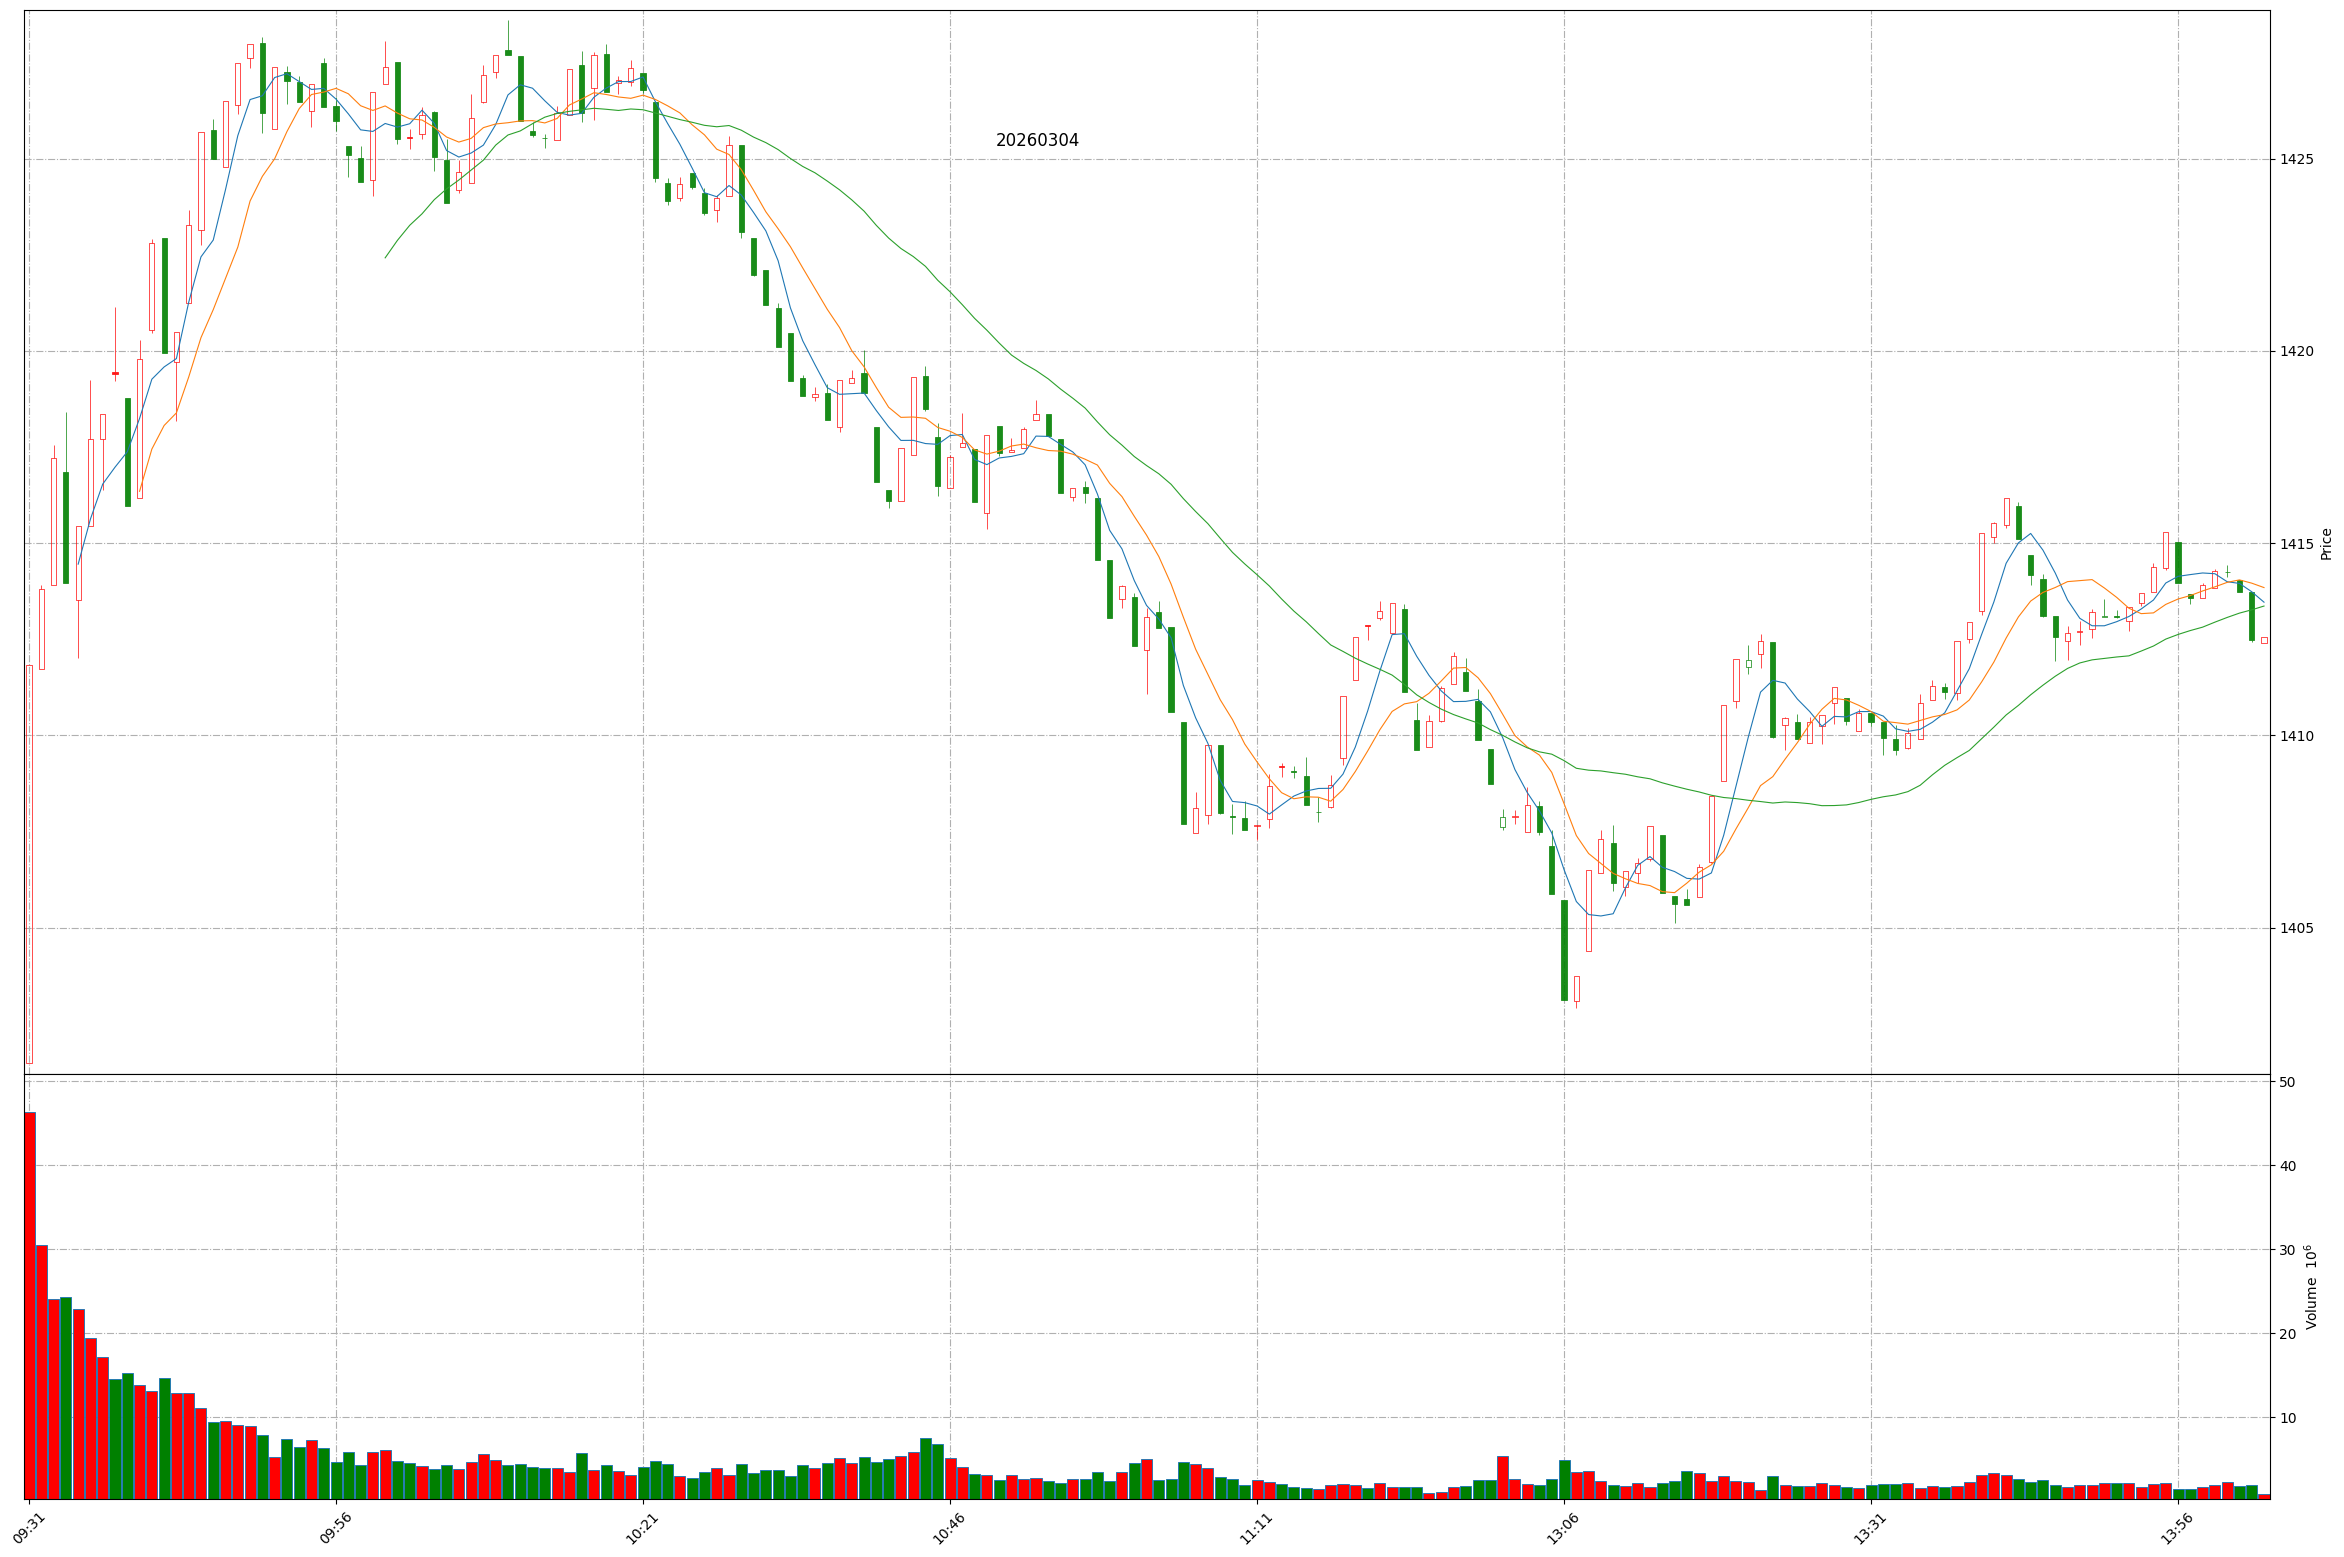
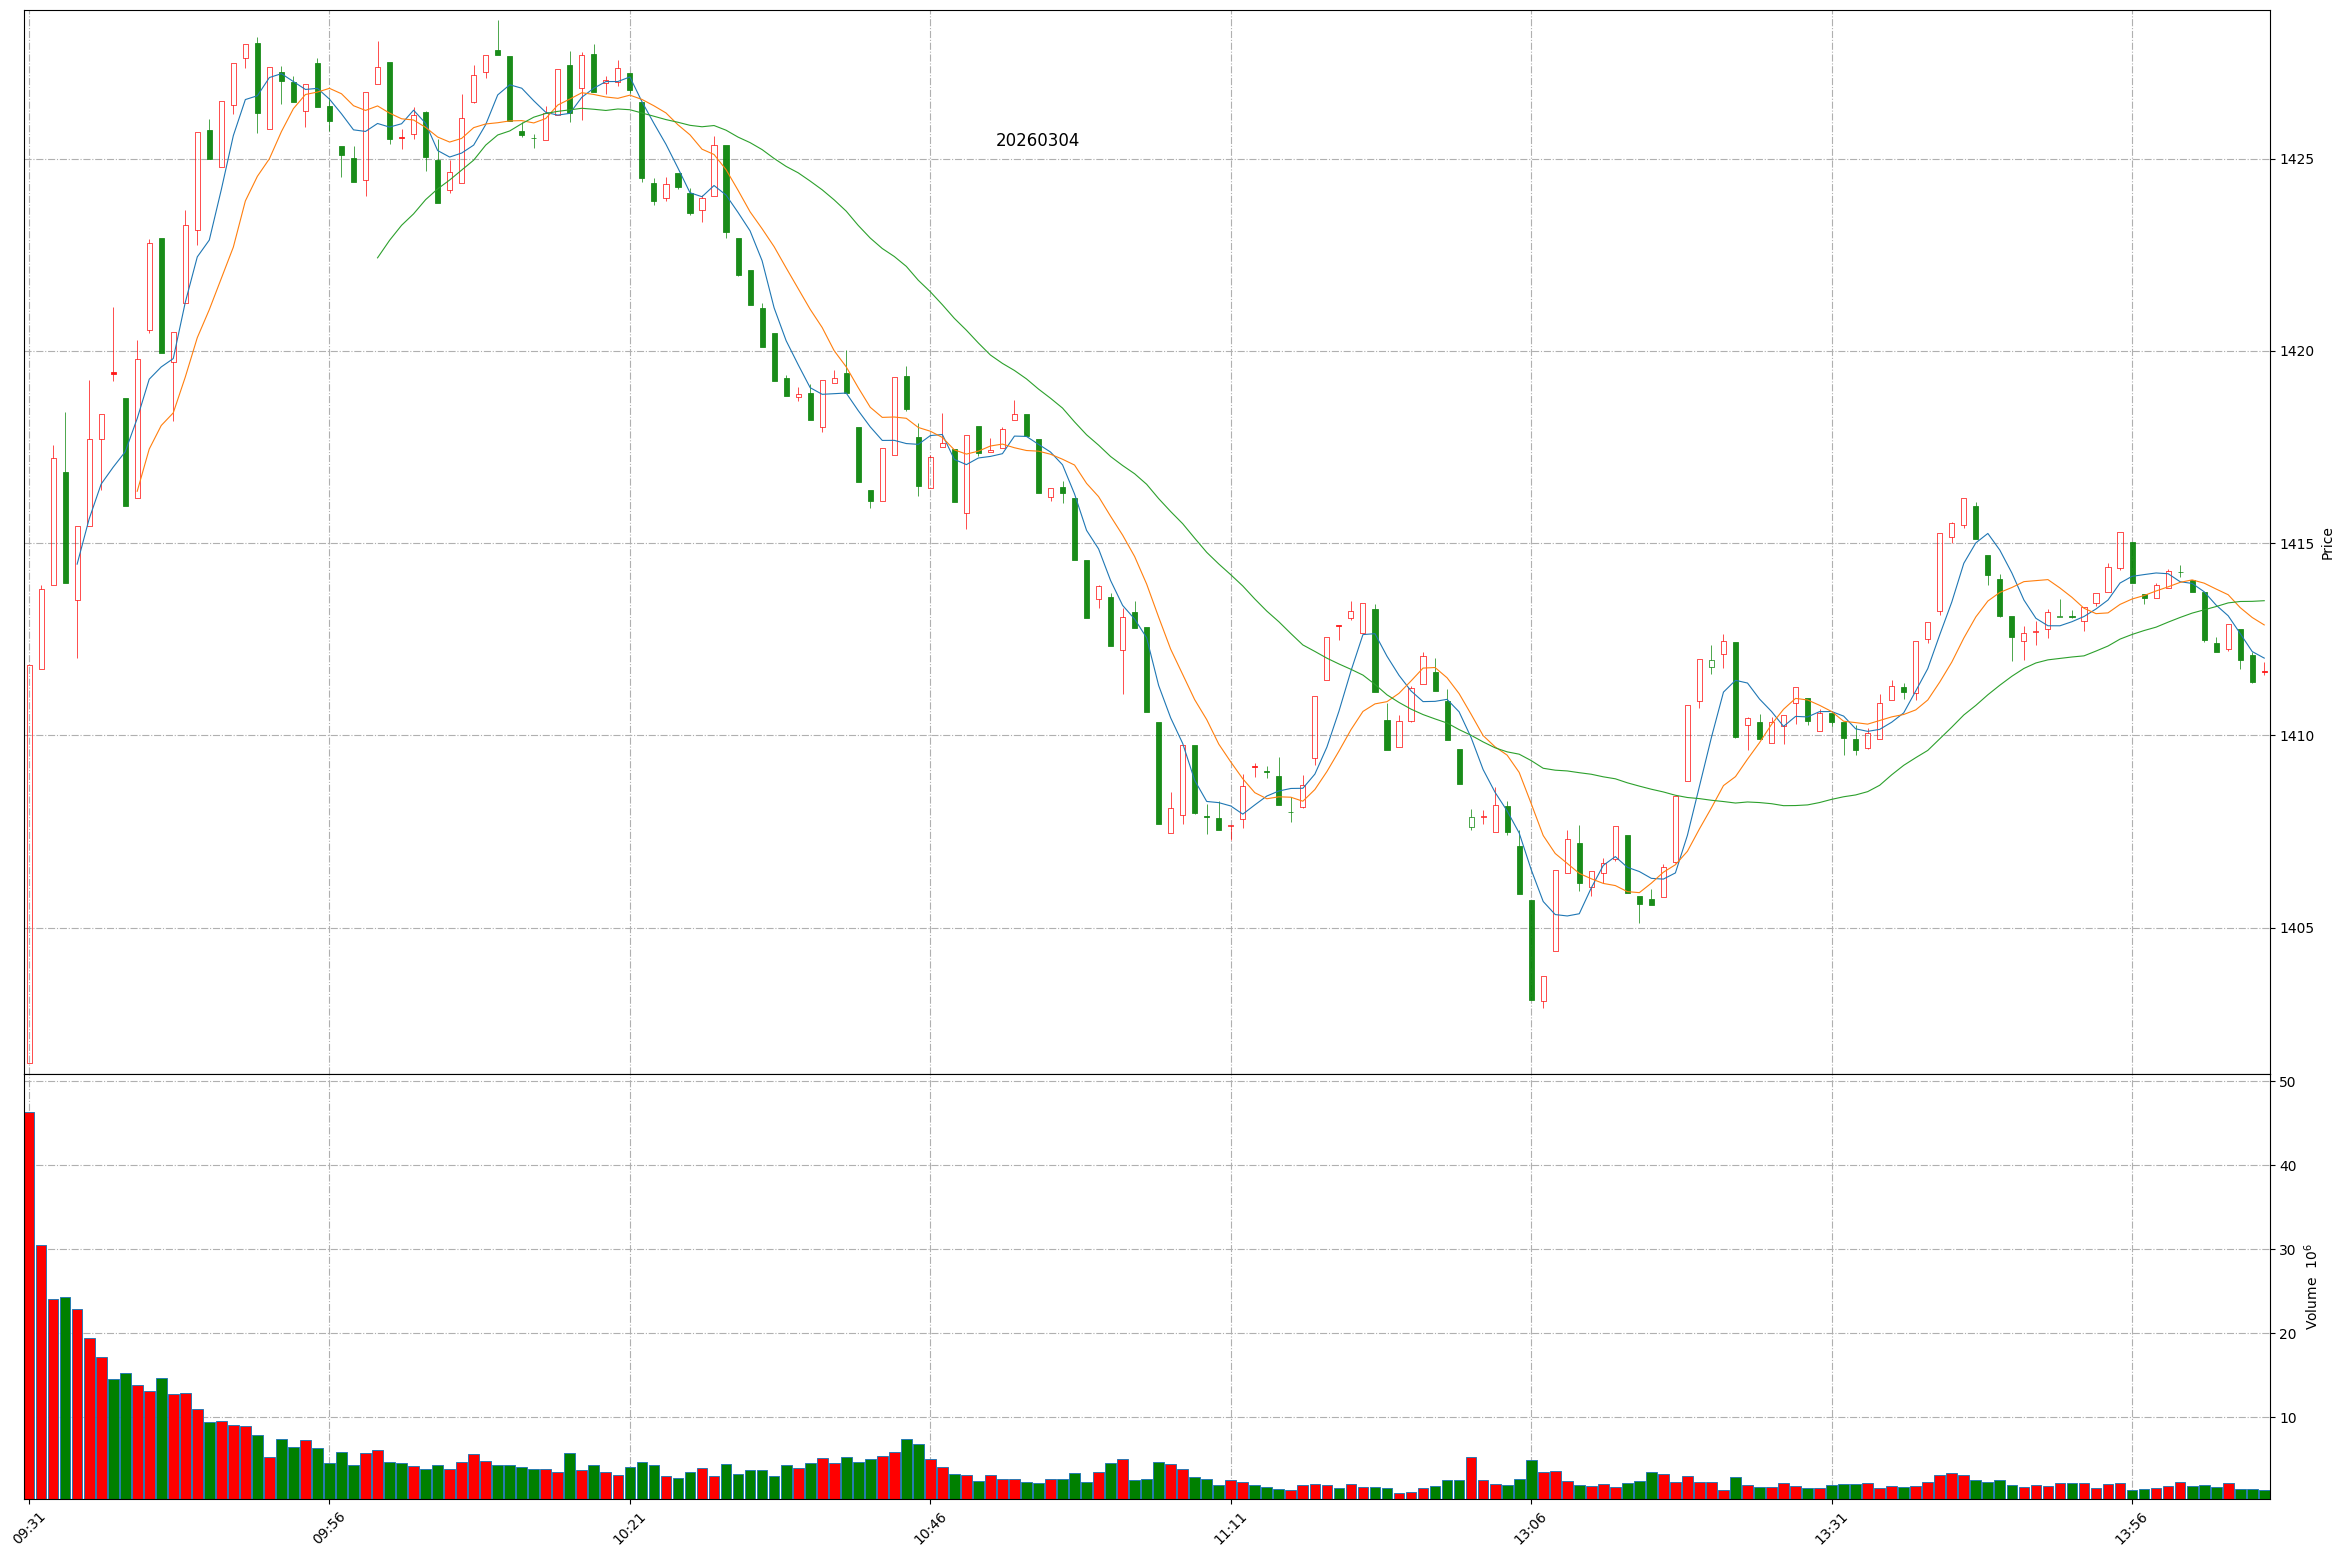
Github action update at 2026-03-04 14:07:07.

diff --git a/README.md b/README.md
@@ -1,11 +1,11 @@
 
 # Daily-A-share-market-quotes 每日 A 股指数（5min 更新）- 20260304
 
-### 上证指数 20260304 14:2
+### 上证指数 20260304 14:7
 ![](./fig/2026/3/20260304-sh000001.png)
 
-### 深证成指 20260304 14:2
+### 深证成指 20260304 14:7
 ![](./fig/2026/3/20260304-sz399001.png)
 
-### 北证50 20260304 14:2
+### 北证50 20260304 14:7
 ![](./fig/2026/3/20260304-bj899050.png)
